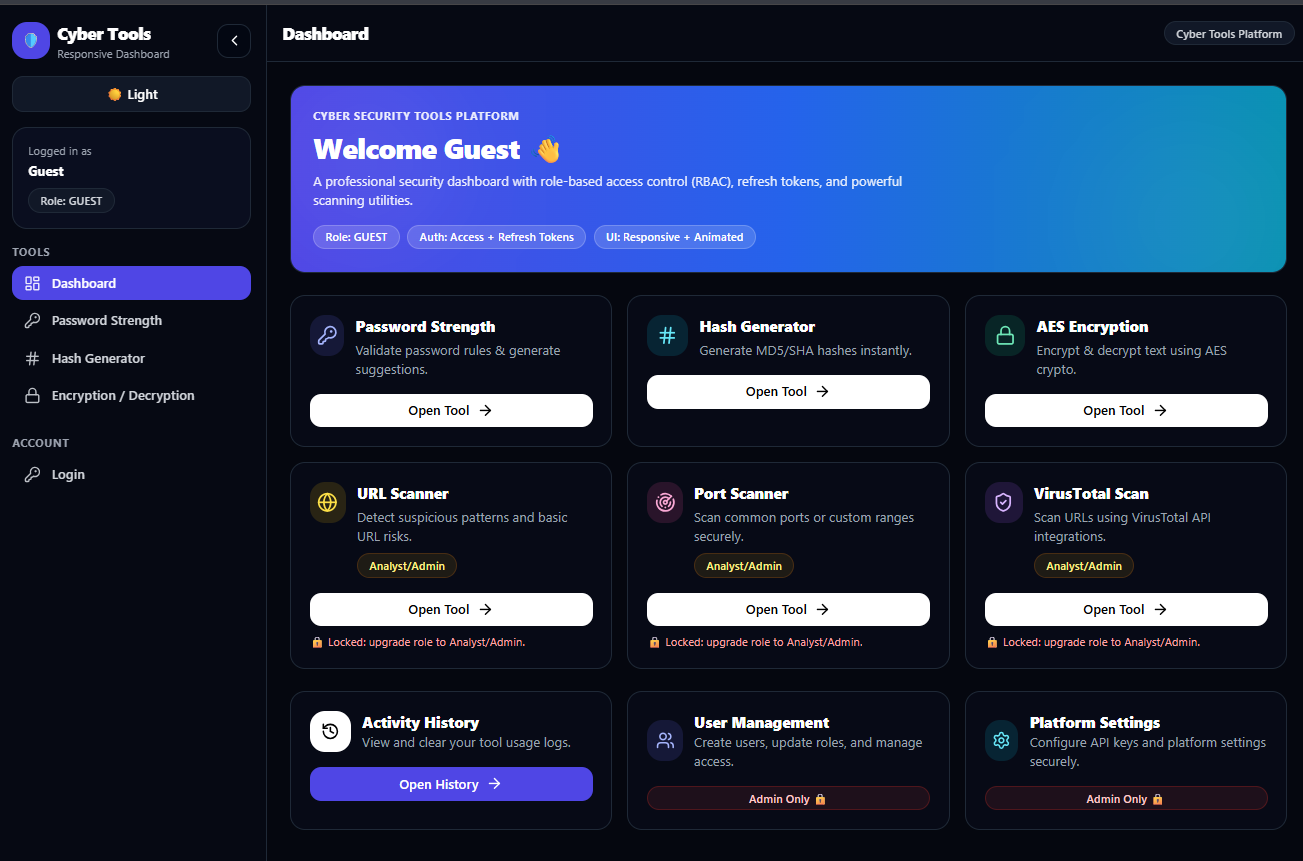
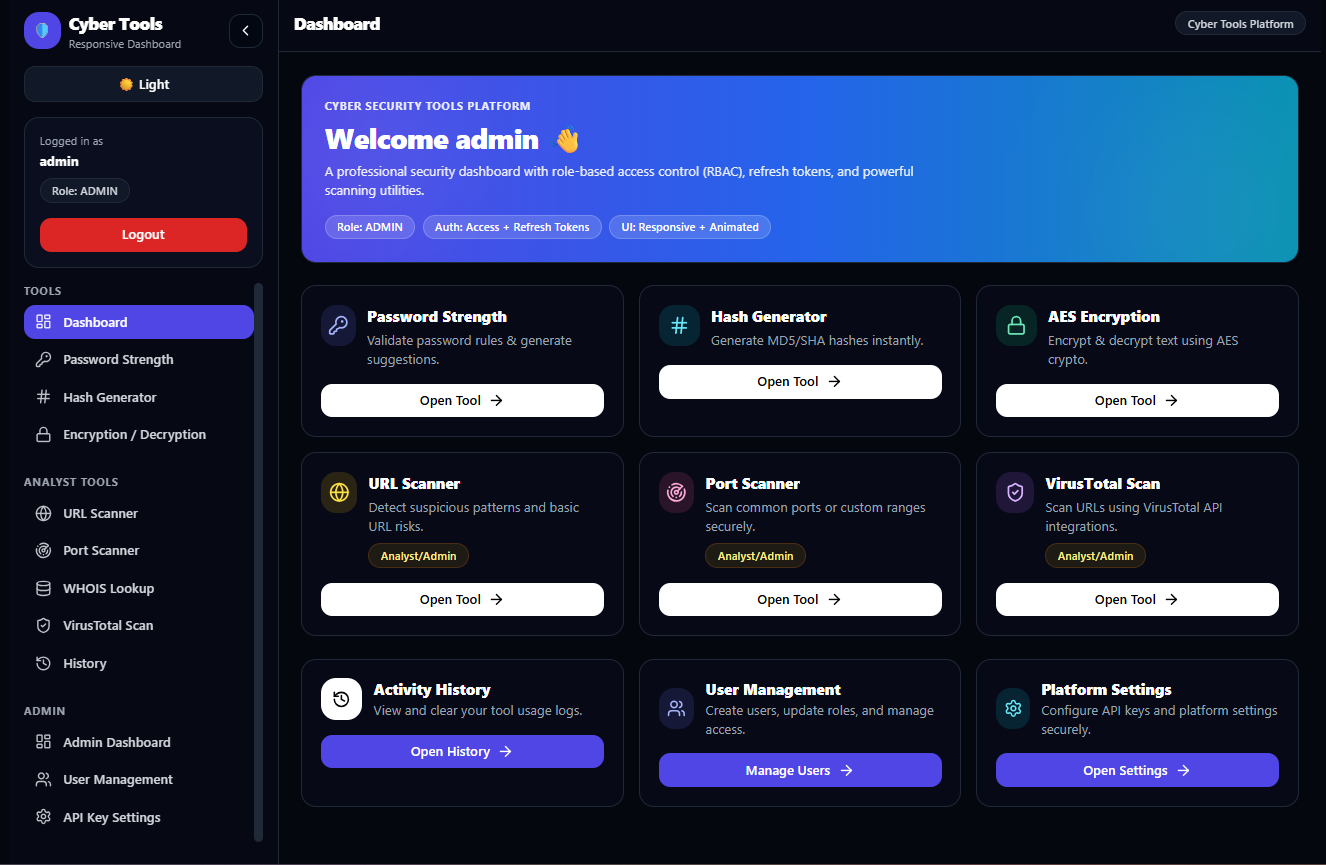
Initial commit

diff --git a/portfolio.html b/portfolio.html
@@ -296,7 +296,7 @@
 </ul>
 
             <div class="nav-controls">
-                <a href="Amit Nayak-Resume.pdf" class="nav-resume-btn" target="_blank" rel="noopener">Resume ↗</a>
+                <a href="Amit_Nayak_Resume.pdf" class="nav-resume-btn" target="_blank" rel="noopener">Resume ↗</a>
                 <button class="menu-toggle" id="menuToggle" aria-label="Toggle menu" aria-expanded="false">
                 <span></span><span></span><span></span>
             </button>
@@ -366,7 +366,7 @@
                         <svg width="15" height="15" viewBox="0 0 24 24" fill="none" stroke="currentColor" stroke-width="2" aria-hidden="true"><rect x="2" y="3" width="20" height="14" rx="2"/><line x1="8" y1="21" x2="16" y2="21"/><line x1="12" y1="17" x2="12" y2="21"/></svg>
                         View Projects
                     </a>
-                    <a href="Amit Nayak-Resume.pdf" class="btn btn-secondary btn-magnetic" target="_blank" rel="noopener">
+                    <a href="Amit_Nayak_Resume.pdf" class="btn btn-secondary btn-magnetic" target="_blank" rel="noopener">
                         <svg width="15" height="15" viewBox="0 0 24 24" fill="none" stroke="currentColor" stroke-width="2" aria-hidden="true"><path d="M21 15v4a2 2 0 0 1-2 2H5a2 2 0 0 1-2-2v-4"/><polyline points="7 10 12 15 17 10"/><line x1="12" y1="15" x2="12" y2="3"/></svg>
                         Download CV
                     </a>
@@ -420,8 +420,8 @@
 
 </div>
 
-                    <div class="hero-stat-card stat-card-1" aria-label="7 plus projects">
-                        <span class="stat-num" data-count="7" data-suffix="+">7+</span>
+                    <div class="hero-stat-card stat-card-1" aria-label="11 plus projects">
+                        <span class="stat-num" data-count="11" data-suffix="+">11+</span>
                         <span class="stat-label">Projects</span>
                     </div>
                     <div class="hero-stat-card stat-card-2" aria-label="3 plus years coding">
@@ -479,7 +479,7 @@
                     <p>I'm an aspiring software engineer with expertise in Java, C++, web development, and modern technologies. With a strong foundation in both frontend and backend development, I'm passionate about creating full-stack applications that solve real-world problems and deliver exceptional user experiences.</p>
                     <div class="about-highlights">
                         <div class="about-hl-item">
-                            <span class="hl-num"><span class="count-up" data-target="7" data-suffix="+">0</span></span>
+                            <span class="hl-num"><span class="count-up" data-target="11" data-suffix="+">0</span></span>
                             <span class="hl-label">Projects Built</span>
                         </div>
                         <div class="about-hl-item">
@@ -667,6 +667,98 @@
 <div class="projects-scroll-wrap">
 
             <div class="projects-grid">
+
+
+
+<!-- ══════════════════════════════
+     CAREER CAMPUS  — 5 real image slots
+══════════════════════════════ -->
+<div class="project-card reveal tilt-card">
+    <div class="pc-metric"><span class="pc-metric-dot"></span>AI Recommendations · Admin Panel</div>
+
+    <div class="pc-slideshow" data-slides="5">
+        <div class="pc-slides-track">
+
+            <div class="pc-slide" style="background:#0a0a0a; padding:0;">
+                <img src="images/CarearCampus-1.png" alt="CareerCampus — Screenshot 1"
+                     class="pc-img-slide"
+                     onerror="this.style.display='none';this.nextElementSibling.style.display='flex';">
+                <div class="pc-img-placeholder" style="display:none;">
+                    <svg width="32" height="32" viewBox="0 0 24 24" fill="none" stroke="currentColor" stroke-width="1.5"><rect x="3" y="3" width="18" height="18" rx="2"/><circle cx="8.5" cy="8.5" r="1.5"/><polyline points="21 15 16 10 5 21"/></svg>
+                    <span>images/CareerCampus-1.png</span>
+                </div>
+            </div>
+
+            <div class="pc-slide" style="background:#0a0a0a; padding:0;">
+                <img src="images/CarearCampus-2.png" alt="CareerCampus — Screenshot 2"
+                     class="pc-img-slide"
+                     onerror="this.style.display='none';this.nextElementSibling.style.display='flex';">
+                <div class="pc-img-placeholder" style="display:none;">
+                    <svg width="32" height="32" viewBox="0 0 24 24" fill="none" stroke="currentColor" stroke-width="1.5"><rect x="3" y="3" width="18" height="18" rx="2"/><circle cx="8.5" cy="8.5" r="1.5"/><polyline points="21 15 16 10 5 21"/></svg>
+                    <span>images/CareerCampus-2.png</span>
+                </div>
+            </div>
+
+            <div class="pc-slide" style="background:#0a0a0a; padding:0;">
+                <img src="images/CarearCampus-3.png" alt="CareerCampus — Screenshot 3"
+                     class="pc-img-slide"
+                     onerror="this.style.display='none';this.nextElementSibling.style.display='flex';">
+                <div class="pc-img-placeholder" style="display:none;">
+                    <svg width="32" height="32" viewBox="0 0 24 24" fill="none" stroke="currentColor" stroke-width="1.5"><rect x="3" y="3" width="18" height="18" rx="2"/><circle cx="8.5" cy="8.5" r="1.5"/><polyline points="21 15 16 10 5 21"/></svg>
+                    <span>images/CareerCampus-3.png</span>
+                </div>
+            </div>
+
+            <div class="pc-slide" style="background:#0a0a0a; padding:0;">
+                <img src="images/CarearCampus-4.png" alt="CareerCampus — Screenshot 4"
+                     class="pc-img-slide"
+                     onerror="this.style.display='none';this.nextElementSibling.style.display='flex';">
+                <div class="pc-img-placeholder" style="display:none;">
+                    <svg width="32" height="32" viewBox="0 0 24 24" fill="none" stroke="currentColor" stroke-width="1.5"><rect x="3" y="3" width="18" height="18" rx="2"/><circle cx="8.5" cy="8.5" r="1.5"/><polyline points="21 15 16 10 5 21"/></svg>
+                    <span>images/CareerCampus-4.png</span>
+                </div>
+            </div>
+
+            <div class="pc-slide" style="background:#0a0a0a; padding:0;">
+                <img src="images/CarearCampus-5.png" alt="CareerCampus — Screenshot 5"
+                     class="pc-img-slide"
+                     onerror="this.style.display='none';this.nextElementSibling.style.display='flex';">
+                <div class="pc-img-placeholder" style="display:none;">
+                    <svg width="32" height="32" viewBox="0 0 24 24" fill="none" stroke="currentColor" stroke-width="1.5"><rect x="3" y="3" width="18" height="18" rx="2"/><circle cx="8.5" cy="8.5" r="1.5"/><polyline points="21 15 16 10 5 21"/></svg>
+                    <span>images/CareerCampus-5.png</span>
+                </div>
+            </div>
+
+        </div>
+        <button class="ps-prev" onclick="slidePrev(this)" aria-label="Previous slide">‹</button>
+        <button class="ps-next" onclick="slideNext(this)" aria-label="Next slide">›</button>
+        <div class="ps-dots" role="tablist">
+            <span class="ps-dot-ind active" role="tab"></span>
+            <span class="ps-dot-ind" role="tab"></span>
+            <span class="ps-dot-ind" role="tab"></span>
+            <span class="ps-dot-ind" role="tab"></span>
+            <span class="ps-dot-ind" role="tab"></span>
+        </div>
+    </div>
+
+    <div class="pc-body">
+        <div class="pc-title-row">
+            <div><h3>CareerCampus</h3><p class="pc-sub">Full Stack Career Guidance Platform</p></div>
+            <a href="https://career-campus-five.vercel.app" target="_blank" rel="noopener noreferrer" class="pc-ext-link">
+                <svg width="14" height="14" viewBox="0 0 24 24" fill="none" stroke="currentColor" stroke-width="2.5" aria-hidden="true"><path d="M18 13v6a2 2 0 0 1-2 2H5a2 2 0 0 1-2-2V8a2 2 0 0 1 2-2h6"/><polyline points="15 3 21 3 21 9"/><line x1="10" y1="14" x2="21" y2="3"/></svg>
+                Live
+            </a>
+        </div>
+        <p class="pc-duration">May 2025 – May 2026</p>
+        <p class="pc-desc">Career guidance platform with a rule-based AI engine matching students to 100+ career paths. Features a 4-step wizard, JWT auth, student/admin RBAC, Recharts analytics dashboard, career explorer with search &amp; pagination, and full dark/light mode.</p>
+        <div class="pc-stack"><span>React 18</span><span>Node.js</span><span>MongoDB</span><span>JWT</span><span>Recharts</span><span>Tailwind</span></div>
+        <a href="https://career-campus-five.vercel.app" target="_blank" rel="noopener noreferrer" class="pc-cta">View Project →</a>
+    </div>
+    <div class="pc-hover-detail">
+        <p class="pc-highlight">🎓 <strong>Features:</strong> AI recommendation engine, admin dashboard, 100+ careers, threaded query system</p>
+    </div>
+</div>
+
 
                 <!-- ══════════════════════════════
                      E-MART  — 5 real image slots
@@ -1153,7 +1245,7 @@
                                 </div>
                             </div>
 
-                            <!-- <div class="pc-slide" style="background:#0a0a0a; padding:0;">
+                            <div class="pc-slide" style="background:#0a0a0a; padding:0;">
                                 <img src="images/cyber-3.png" alt="Cyber Security Tools — Screenshot 3"
                                      class="pc-img-slide"
                                      onerror="this.style.display='none';this.nextElementSibling.style.display='flex';">
@@ -1181,7 +1273,7 @@
                                     <svg width="32" height="32" viewBox="0 0 24 24" fill="none" stroke="currentColor" stroke-width="1.5"><rect x="3" y="3" width="18" height="18" rx="2"/><circle cx="8.5" cy="8.5" r="1.5"/><polyline points="21 15 16 10 5 21"/></svg>
                                     <span>images/cyber-5.png</span>
                                 </div>
-                            </div> -->
+                            </div>
 
                         </div>
                         <button class="ps-prev" onclick="slidePrev(this)" aria-label="Previous slide">‹</button>
@@ -1224,7 +1316,7 @@
                         <div class="pc-slides-track">
 
                             <div class="pc-slide" style="background:#0a0a0a; padding:0;">
-                                <img src="/profile.jpg" alt="Chat App — Screenshot 1"
+                                <img src="images/chat-1.png" alt="Chat App — Screenshot 1"
                                      class="pc-img-slide"
                                      onerror="this.style.display='none';this.nextElementSibling.style.display='flex';">
                                 <div class="pc-img-placeholder" style="display:none;">
@@ -1253,7 +1345,9 @@
                                 </div>
                             </div>
 
-                            <div class="pc-slide" style="background:#0a0a0a; padding:0;">
+
+
+                            <!-- <div class="pc-slide" style="background:#0a0a0a; padding:0;">
                                 <img src="images/chat-4.png" alt="Chat App — Screenshot 4"
                                      class="pc-img-slide"
                                      onerror="this.style.display='none';this.nextElementSibling.style.display='flex';">
@@ -1271,7 +1365,12 @@
                                     <svg width="32" height="32" viewBox="0 0 24 24" fill="none" stroke="currentColor" stroke-width="1.5"><rect x="3" y="3" width="18" height="18" rx="2"/><circle cx="8.5" cy="8.5" r="1.5"/><polyline points="21 15 16 10 5 21"/></svg>
                                     <span>images/chat-5.png</span>
                                 </div>
-                            </div>
+                            </div> -->
+
+
+
+
+
 
                         </div>
                         <button class="ps-prev" onclick="slidePrev(this)" aria-label="Previous slide">‹</button>
@@ -1383,7 +1482,7 @@
                 </div>
                 <div class="github-stats-row">
                     <div class="gh-stat">
-                        <span class="gh-stat-num"><span class="count-up" data-target="7" data-suffix="+">0</span></span>
+                        <span class="gh-stat-num"><span class="count-up" data-target="11" data-suffix="+">0</span></span>
                         <span class="gh-stat-label">Repositories</span>
                     </div>
                     <div class="gh-stat">

diff --git a/script.js b/script.js
@@ -1721,16 +1721,3 @@ window.addEventListener('resize', throttle(() => { spawnParticles(0); }, 300));
 
 
 
-
-// ── Smooth scroll fix for all anchor links including Hire Me ──
-document.addEventListener('click', function(e) {
-    const link = e.target.closest('a[href^="#"]');
-    if (!link) return;
-    const href = link.getAttribute('href');
-    if (!href || href === '#') return;
-    const target = document.querySelector(href);
-    if (target) {
-        e.preventDefault();
-        target.scrollIntoView({ behavior: 'smooth', block: 'start' });
-    }
-});